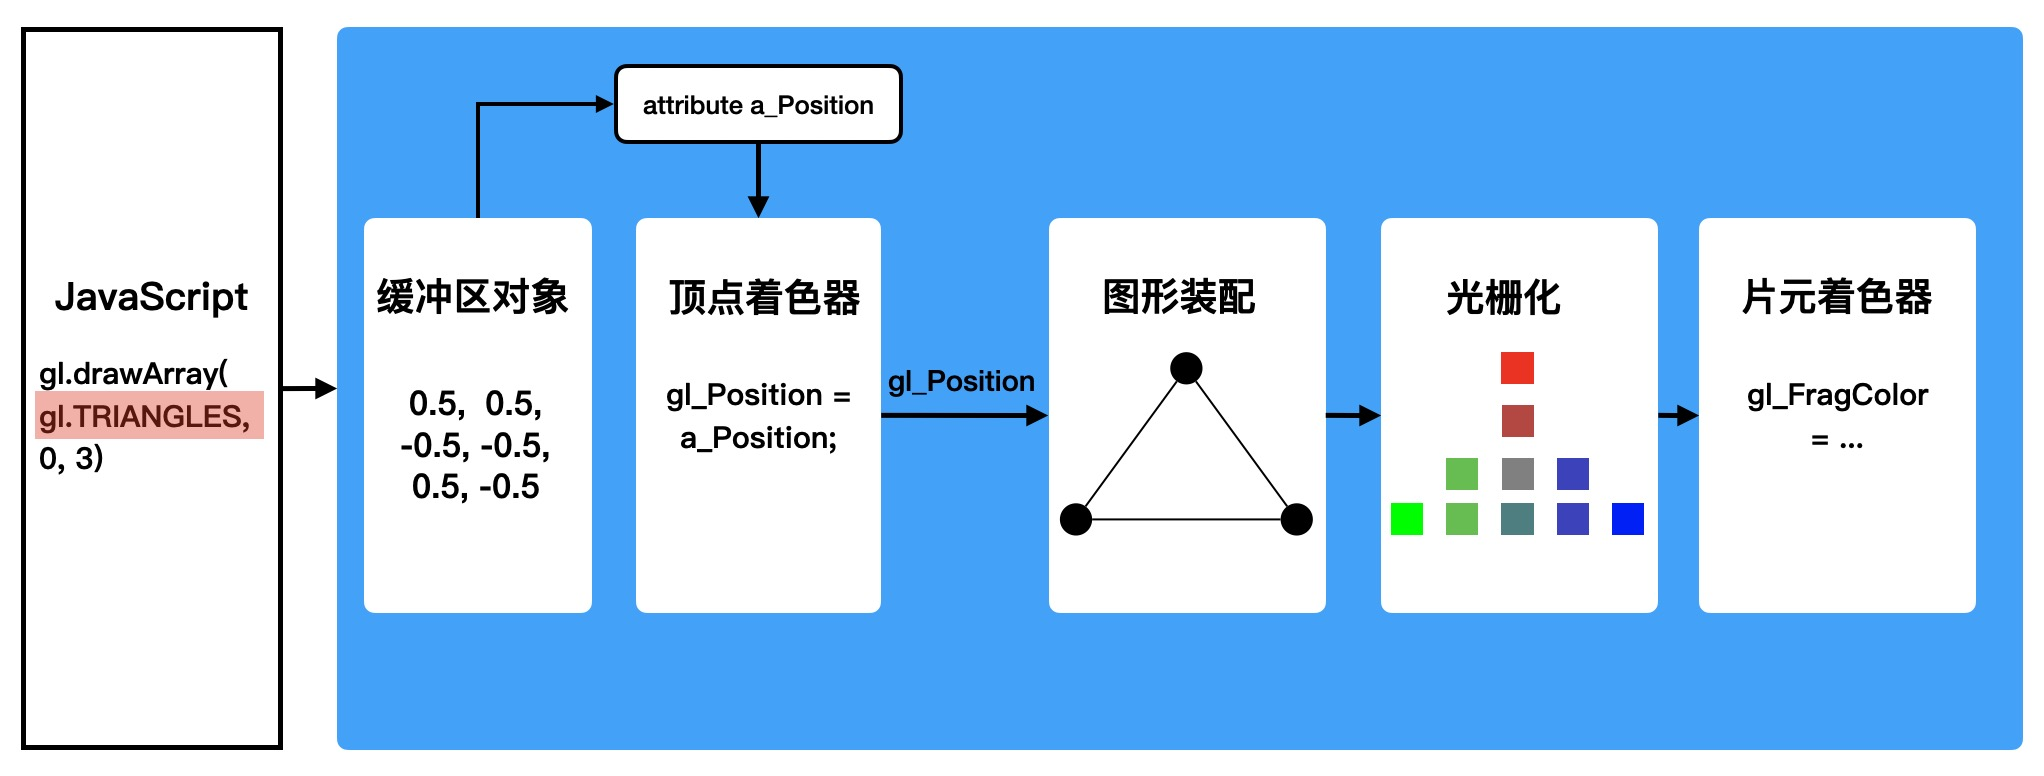
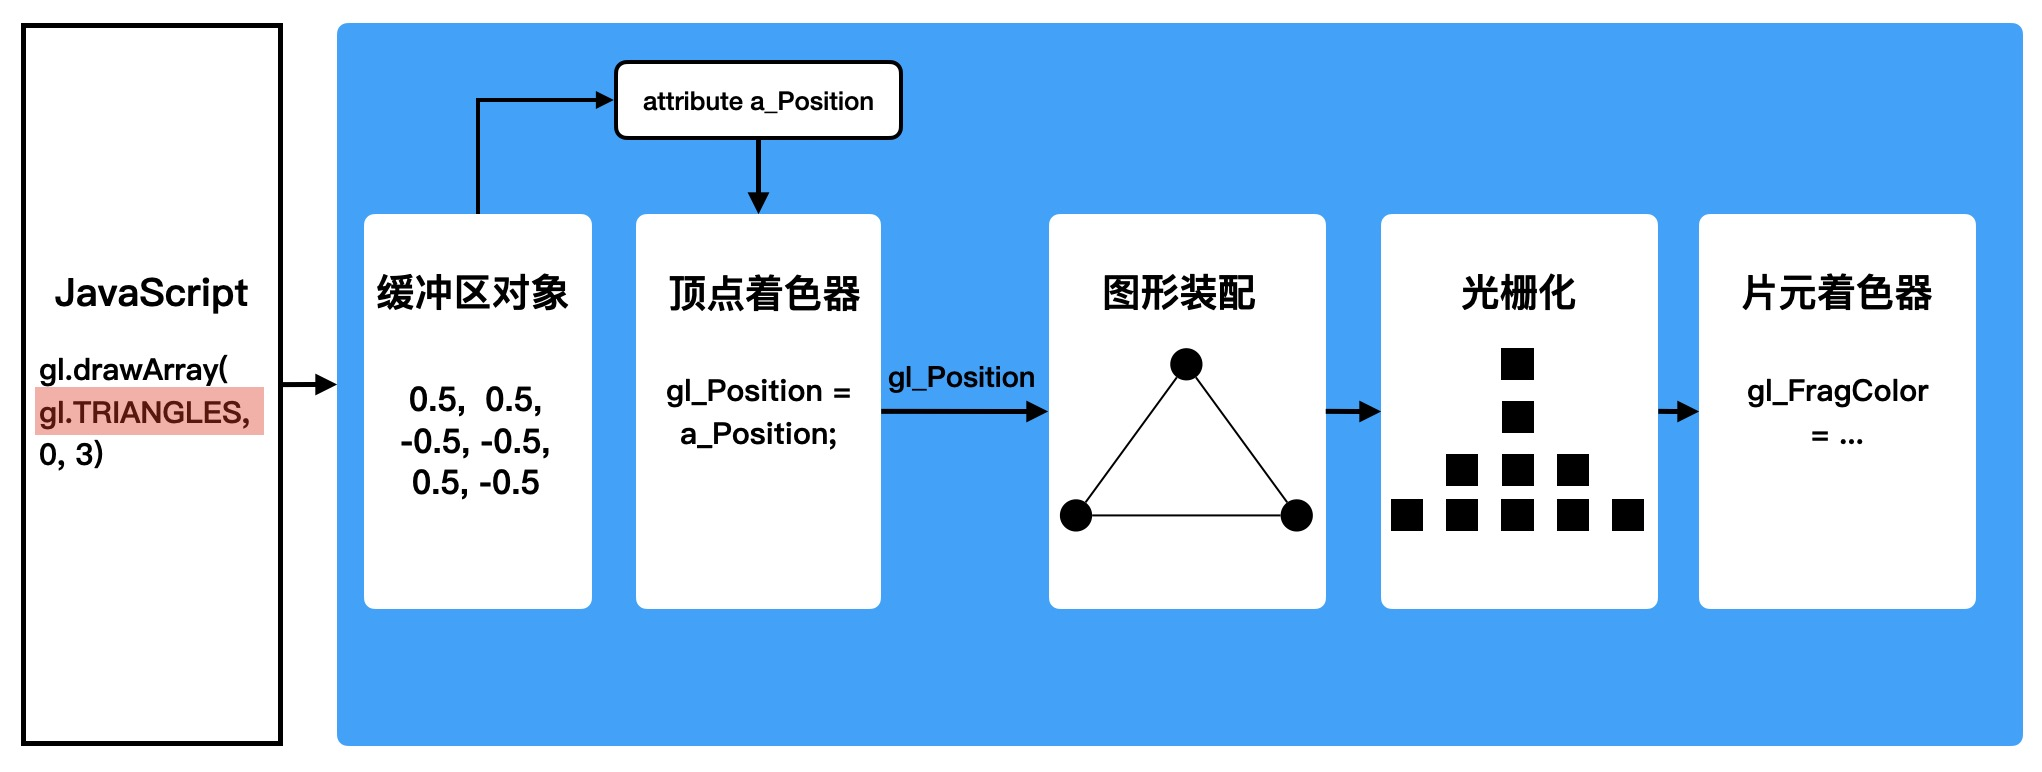
feat: 完善步骤21

diff --git a/book/lesson21/README.md b/book/lesson21/README.md
@@ -1,3 +1,9 @@
 # 彩色三角形3: 调用片元着色器 - 逐片元调用
 
-一旦光栅化结束，程序就开始 *逐片元调用* 片元着色器。片元着色器每调用一次，就处理一个片元。**片元着色器计算出该片元的颜色，并写入颜色缓冲区，知道最后一个片元处理完成，浏览器就会显示最终的结果。**
+一旦光栅化结束，程序就开始 *逐片元调用* 片元着色器。片元着色器每调用一次，就处理一个片元。**片元着色器计算出该片元的颜色，并写入颜色缓冲区，直到最后一个片元处理完成，浏览器就会显示最终的结果。**
+
+<img src="https://github.com/zqiangxu/webgl/blob/main/assets/book/lesson21/process1.png?raw=true" width="1000px"/>
+
+<img src="https://github.com/zqiangxu/webgl/blob/main/assets/book/lesson21/process2.png?raw=true" width="1000px"/>
+
+<img src="https://github.com/zqiangxu/webgl/blob/main/assets/book/lesson21/process3.png?raw=true" width="1000px"/>
